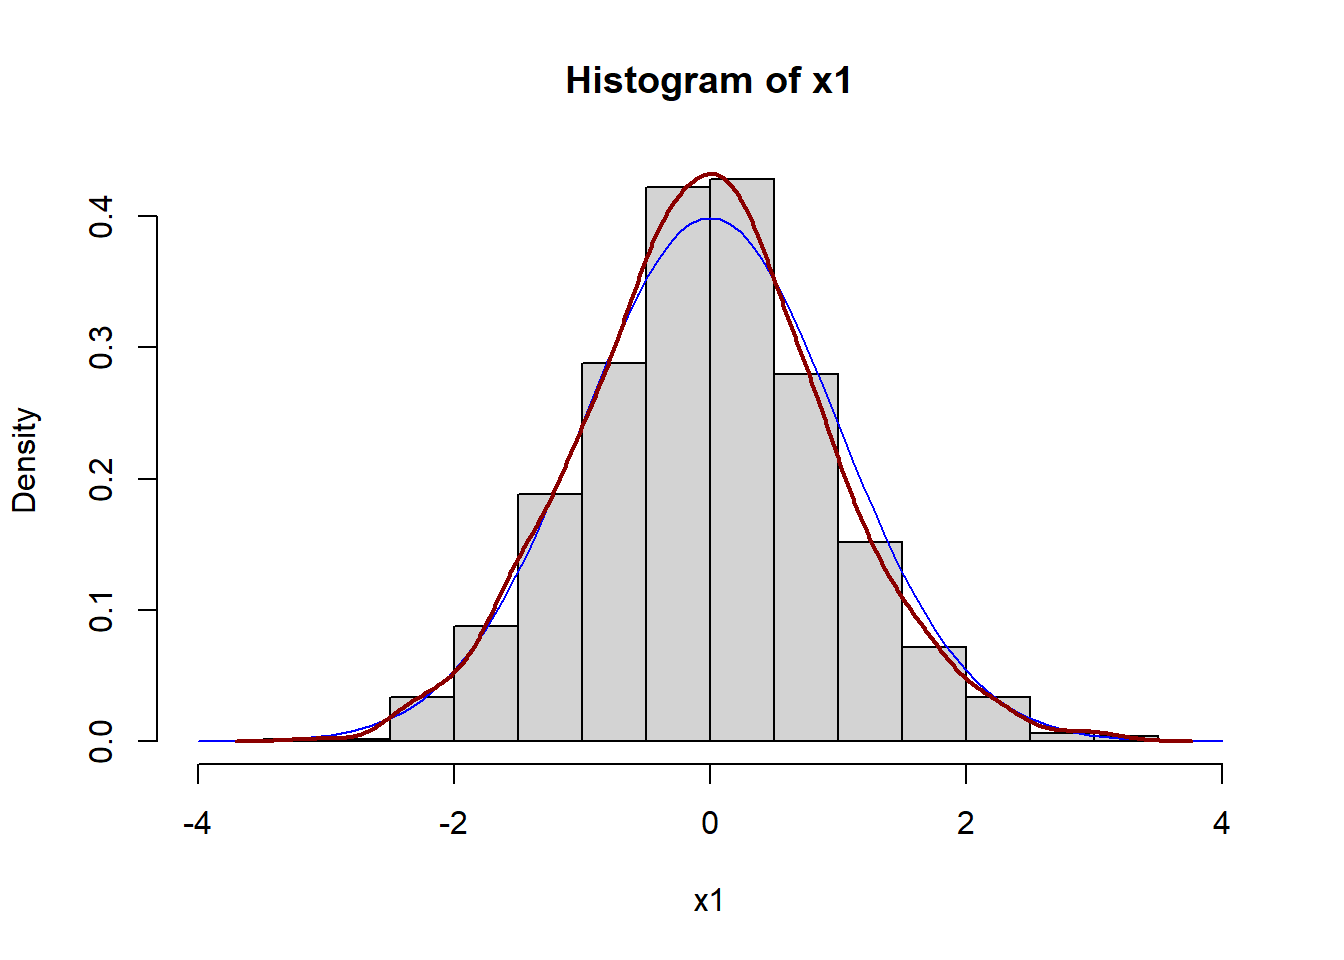
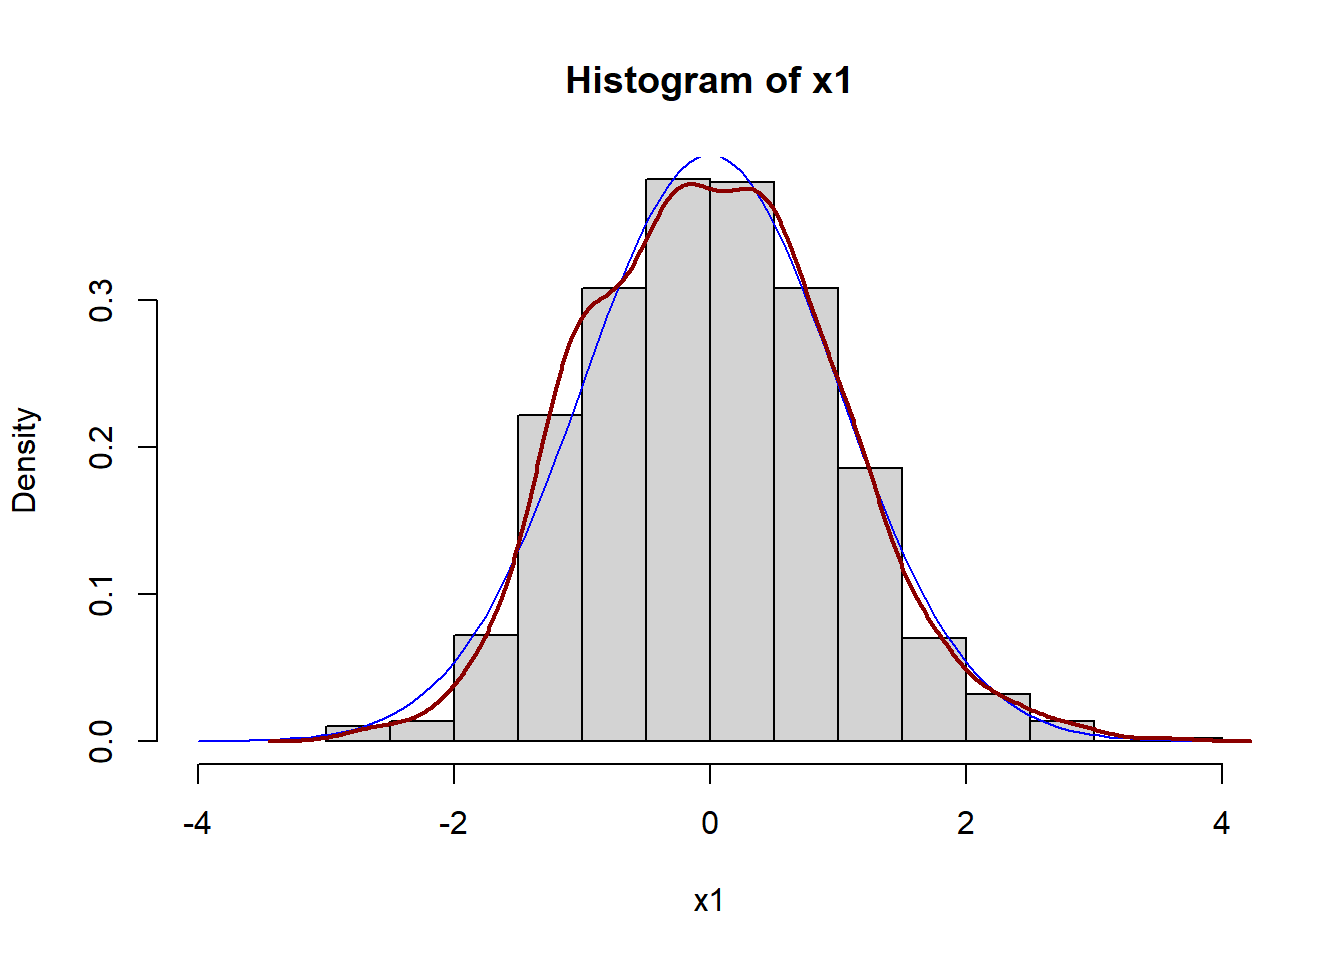
Built site for gh-pages

diff --git a/CONTENIDO/Capitulo_Ejemplo.html b/CONTENIDO/Capitulo_Ejemplo.html
@@ -9,7 +9,7 @@
 <meta name="author" content="Brayan Cubides">
 <meta name="description" content="Material del curso de Series de Tiempo">
 
-<title>1&nbsp; Repaso y Simulación Serie – SERIES DE TIEMPO</title>
+<title>2&nbsp; Repaso y Simulación Serie – SERIES DE TIEMPO</title>
 <style>
 code{white-space: pre-wrap;}
 span.smallcaps{font-variant: small-caps;}
@@ -289,7 +289,7 @@ pre > code.sourceCode > span > a:first-child::before { text-decoration: underlin
       <button type="button" class="quarto-btn-toggle btn" data-bs-toggle="collapse" role="button" data-bs-target=".quarto-sidebar-collapse-item" aria-controls="quarto-sidebar" aria-expanded="false" aria-label="Toggle sidebar navigation" onclick="if (window.quartoToggleHeadroom) { window.quartoToggleHeadroom(); }">
         <i class="bi bi-layout-text-sidebar-reverse"></i>
       </button>
-        <nav class="quarto-page-breadcrumbs" aria-label="breadcrumb"><ol class="breadcrumb"><li class="breadcrumb-item"><a href="../CONTENIDO/Capitulo_Ejemplo.html"><span class="chapter-number">1</span>&nbsp; <span class="chapter-title">Repaso y Simulación Serie</span></a></li></ol></nav>
+        <nav class="quarto-page-breadcrumbs" aria-label="breadcrumb"><ol class="breadcrumb"><li class="breadcrumb-item"><a href="../CONTENIDO/Capitulo_Ejemplo.html"><span class="chapter-number">2</span>&nbsp; <span class="chapter-title">Repaso y Simulación Serie</span></a></li></ol></nav>
         <a class="flex-grow-1" role="navigation" data-bs-toggle="collapse" data-bs-target=".quarto-sidebar-collapse-item" aria-controls="quarto-sidebar" aria-expanded="false" aria-label="Toggle sidebar navigation" onclick="if (window.quartoToggleHeadroom) { window.quartoToggleHeadroom(); }">      
         </a>
       <button type="button" class="btn quarto-search-button" aria-label="Search" onclick="window.quartoOpenSearch();">
@@ -326,13 +326,13 @@ pre > code.sourceCode > span > a:first-child::before { text-decoration: underlin
         <li class="sidebar-item">
   <div class="sidebar-item-container"> 
   <a href="../index.html" class="sidebar-item-text sidebar-link">
- <span class="menu-text">Preface</span></a>
+ <span class="menu-text"><span class="chapter-number">1</span>&nbsp; <span class="chapter-title">INTRODUCCIÓN</span></span></a>
   </div>
 </li>
         <li class="sidebar-item">
   <div class="sidebar-item-container"> 
   <a href="../CONTENIDO/Capitulo_Ejemplo.html" class="sidebar-item-text sidebar-link active">
- <span class="menu-text"><span class="chapter-number">1</span>&nbsp; <span class="chapter-title">Repaso y Simulación Serie</span></span></a>
+ <span class="menu-text"><span class="chapter-number">2</span>&nbsp; <span class="chapter-title">Repaso y Simulación Serie</span></span></a>
   </div>
 </li>
     </ul>
@@ -345,9 +345,9 @@ pre > code.sourceCode > span > a:first-child::before { text-decoration: underlin
     <h2 id="toc-title">Table of contents</h2>
    
   <ul class="collapse">
-  <li><a href="#distribución-normal-bivariada" id="toc-distribución-normal-bivariada" class="nav-link active" data-scroll-target="#distribución-normal-bivariada"><span class="header-section-number">2</span> DISTRIBUCIÓN NORMAL BIVARIADA</a></li>
-  <li><a href="#distribución-normal-univariada-1" id="toc-distribución-normal-univariada-1" class="nav-link" data-scroll-target="#distribución-normal-univariada-1"><span class="header-section-number">3</span> DISTRIBUCIÓN NORMAL UNIVARIADA 1</a></li>
-  <li><a href="#distribución-normal-univariada-2" id="toc-distribución-normal-univariada-2" class="nav-link" data-scroll-target="#distribución-normal-univariada-2"><span class="header-section-number">4</span> DISTRIBUCIÓN NORMAL UNIVARIADA 2</a></li>
+  <li><a href="#distribución-normal-bivariada" id="toc-distribución-normal-bivariada" class="nav-link active" data-scroll-target="#distribución-normal-bivariada"><span class="header-section-number">3</span> DISTRIBUCIÓN NORMAL BIVARIADA</a></li>
+  <li><a href="#distribución-normal-univariada-1" id="toc-distribución-normal-univariada-1" class="nav-link" data-scroll-target="#distribución-normal-univariada-1"><span class="header-section-number">4</span> DISTRIBUCIÓN NORMAL UNIVARIADA 1</a></li>
+  <li><a href="#distribución-normal-univariada-2" id="toc-distribución-normal-univariada-2" class="nav-link" data-scroll-target="#distribución-normal-univariada-2"><span class="header-section-number">5</span> DISTRIBUCIÓN NORMAL UNIVARIADA 2</a></li>
   </ul>
 </nav>
     </div>
@@ -357,7 +357,7 @@ pre > code.sourceCode > span > a:first-child::before { text-decoration: underlin
 
 <header id="title-block-header" class="quarto-title-block default">
 <div class="quarto-title">
-<div class="quarto-title-block"><div><h1 class="title"><span class="chapter-number">1</span>&nbsp; <span class="chapter-title">Repaso y Simulación Serie</span></h1><button type="button" class="btn code-tools-button" id="quarto-code-tools-source"><i class="bi"></i> Code</button></div></div>
+<div class="quarto-title-block"><div><h1 class="title"><span class="chapter-number">2</span>&nbsp; <span class="chapter-title">Repaso y Simulación Serie</span></h1><button type="button" class="btn code-tools-button" id="quarto-code-tools-source"><i class="bi"></i> Code</button></div></div>
 </div>
 
 
@@ -380,8 +380,8 @@ pre > code.sourceCode > span > a:first-child::before { text-decoration: underlin
 </header>
 
 
-<section id="distribución-normal-bivariada" class="level1" data-number="2">
-<h1 data-number="2"><span class="header-section-number">2</span> DISTRIBUCIÓN NORMAL BIVARIADA</h1>
+<section id="distribución-normal-bivariada" class="level1" data-number="3">
+<h1 data-number="3"><span class="header-section-number">3</span> DISTRIBUCIÓN NORMAL BIVARIADA</h1>
 <p>Esta sección limpia el entorno, define la secuencia para <em>x</em> e <em>y</em>, define la función de la distribución normal bivariada y genera el gráfico 3D de la densidad.</p>
 <div class="cell">
 <div class="sourceCode cell-code" id="cb1"><pre class="sourceCode r code-with-copy"><code class="sourceCode r"><span id="cb1-1"><a href="#cb1-1" aria-hidden="true" tabindex="-1"></a>x<span class="ot">&lt;-</span><span class="fu">seq</span>(<span class="sc">-</span><span class="dv">6</span>,<span class="dv">6</span>,<span class="at">length=</span><span class="dv">40</span>); y<span class="ot">&lt;-</span>x</span>
@@ -415,8 +415,8 @@ pre > code.sourceCode > span > a:first-child::before { text-decoration: underlin
 </div>
 </div>
 </section>
-<section id="distribución-normal-univariada-1" class="level1" data-number="3">
-<h1 data-number="3"><span class="header-section-number">3</span> DISTRIBUCIÓN NORMAL UNIVARIADA 1</h1>
+<section id="distribución-normal-univariada-1" class="level1" data-number="4">
+<h1 data-number="4"><span class="header-section-number">4</span> DISTRIBUCIÓN NORMAL UNIVARIADA 1</h1>
 <p>Se explora la normal univariada variando la media y la varianza.</p>
 <div class="cell">
 <div class="sourceCode cell-code" id="cb2"><pre class="sourceCode r code-with-copy"><code class="sourceCode r"><span id="cb2-1"><a href="#cb2-1" aria-hidden="true" tabindex="-1"></a><span class="co"># Variando la media de la distribución</span></span>
@@ -468,8 +468,8 @@ pre > code.sourceCode > span > a:first-child::before { text-decoration: underlin
 </div>
 </div>
 </section>
-<section id="distribución-normal-univariada-2" class="level1" data-number="4">
-<h1 data-number="4"><span class="header-section-number">4</span> DISTRIBUCIÓN NORMAL UNIVARIADA 2</h1>
+<section id="distribución-normal-univariada-2" class="level1" data-number="5">
+<h1 data-number="5"><span class="header-section-number">5</span> DISTRIBUCIÓN NORMAL UNIVARIADA 2</h1>
 <p>En esta sección se simulan datos normales, se trazan la serie, el histograma, la curva teórica y la estimación de densidad, además de visualizar la distribución acumulada y calcular algunos momentos.</p>
 <div class="cell">
 <div class="sourceCode cell-code" id="cb10"><pre class="sourceCode r code-with-copy"><code class="sourceCode r"><span id="cb10-1"><a href="#cb10-1" aria-hidden="true" tabindex="-1"></a>x1<span class="ot">&lt;-</span> <span class="fu">rnorm</span>(<span class="dv">1000</span>, <span class="at">mean=</span><span class="dv">0</span>, <span class="at">sd=</span><span class="dv">1</span>)</span>
@@ -509,19 +509,19 @@ pre > code.sourceCode > span > a:first-child::before { text-decoration: underlin
 <span id="cb13-7"><a href="#cb13-7" aria-hidden="true" tabindex="-1"></a></span>
 <span id="cb13-8"><a href="#cb13-8" aria-hidden="true" tabindex="-1"></a>media  </span></code><button title="Copy to Clipboard" class="code-copy-button"><i class="bi"></i></button></pre></div>
 <div class="cell-output cell-output-stdout">
-<pre><code>[1] -0.03577442</code></pre>
+<pre><code>[1] 0.008487366</code></pre>
 </div>
 <div class="sourceCode cell-code" id="cb15"><pre class="sourceCode r code-with-copy"><code class="sourceCode r"><span id="cb15-1"><a href="#cb15-1" aria-hidden="true" tabindex="-1"></a>varianza </span></code><button title="Copy to Clipboard" class="code-copy-button"><i class="bi"></i></button></pre></div>
 <div class="cell-output cell-output-stdout">
-<pre><code>[1] 0.9084387</code></pre>
+<pre><code>[1] 0.9349741</code></pre>
 </div>
 <div class="sourceCode cell-code" id="cb17"><pre class="sourceCode r code-with-copy"><code class="sourceCode r"><span id="cb17-1"><a href="#cb17-1" aria-hidden="true" tabindex="-1"></a>sesgo  </span></code><button title="Copy to Clipboard" class="code-copy-button"><i class="bi"></i></button></pre></div>
 <div class="cell-output cell-output-stdout">
-<pre><code>[1] 0.08749007</code></pre>
+<pre><code>[1] 0.1938528</code></pre>
 </div>
 <div class="sourceCode cell-code" id="cb19"><pre class="sourceCode r code-with-copy"><code class="sourceCode r"><span id="cb19-1"><a href="#cb19-1" aria-hidden="true" tabindex="-1"></a>curtosis</span></code><button title="Copy to Clipboard" class="code-copy-button"><i class="bi"></i></button></pre></div>
 <div class="cell-output cell-output-stdout">
-<pre><code>[1] 3.09528</code></pre>
+<pre><code>[1] 2.993665</code></pre>
 </div>
 </div>
 
@@ -996,8 +996,8 @@ pre > code.sourceCode > span > a:first-child::before { text-decoration: underlin
   </script>
 <nav class="page-navigation">
   <div class="nav-page nav-page-previous">
-      <a href="../index.html" class="pagination-link" aria-label="Preface">
-        <i class="bi bi-arrow-left-short"></i> <span class="nav-page-text">Preface</span>
+      <a href="../index.html" class="pagination-link" aria-label="INTRODUCCIÓN">
+        <i class="bi bi-arrow-left-short"></i> <span class="nav-page-text"><span class="chapter-number">1</span>&nbsp; <span class="chapter-title">INTRODUCCIÓN</span></span>
       </a>          
   </div>
   <div class="nav-page nav-page-next">

diff --git a/index.html b/index.html
@@ -286,7 +286,7 @@ pre > code.sourceCode > span > a:first-child::before { text-decoration: underlin
       <button type="button" class="quarto-btn-toggle btn" data-bs-toggle="collapse" role="button" data-bs-target=".quarto-sidebar-collapse-item" aria-controls="quarto-sidebar" aria-expanded="false" aria-label="Toggle sidebar navigation" onclick="if (window.quartoToggleHeadroom) { window.quartoToggleHeadroom(); }">
         <i class="bi bi-layout-text-sidebar-reverse"></i>
       </button>
-        <nav class="quarto-page-breadcrumbs" aria-label="breadcrumb"><ol class="breadcrumb"><li class="breadcrumb-item"><a href="./index.html">Preface</a></li></ol></nav>
+        <nav class="quarto-page-breadcrumbs" aria-label="breadcrumb"><ol class="breadcrumb"><li class="breadcrumb-item"><a href="./index.html"><span class="chapter-number">1</span>&nbsp; <span class="chapter-title">INTRODUCCIÓN</span></a></li></ol></nav>
         <a class="flex-grow-1" role="navigation" data-bs-toggle="collapse" data-bs-target=".quarto-sidebar-collapse-item" aria-controls="quarto-sidebar" aria-expanded="false" aria-label="Toggle sidebar navigation" onclick="if (window.quartoToggleHeadroom) { window.quartoToggleHeadroom(); }">      
         </a>
       <button type="button" class="btn quarto-search-button" aria-label="Search" onclick="window.quartoOpenSearch();">
@@ -323,13 +323,13 @@ pre > code.sourceCode > span > a:first-child::before { text-decoration: underlin
         <li class="sidebar-item">
   <div class="sidebar-item-container"> 
   <a href="./index.html" class="sidebar-item-text sidebar-link active">
- <span class="menu-text">Preface</span></a>
+ <span class="menu-text"><span class="chapter-number">1</span>&nbsp; <span class="chapter-title">INTRODUCCIÓN</span></span></a>
   </div>
 </li>
         <li class="sidebar-item">
   <div class="sidebar-item-container"> 
   <a href="./CONTENIDO/Capitulo_Ejemplo.html" class="sidebar-item-text sidebar-link">
- <span class="menu-text"><span class="chapter-number">1</span>&nbsp; <span class="chapter-title">Repaso y Simulación Serie</span></span></a>
+ <span class="menu-text"><span class="chapter-number">2</span>&nbsp; <span class="chapter-title">Repaso y Simulación Serie</span></span></a>
   </div>
 </li>
     </ul>
@@ -342,7 +342,7 @@ pre > code.sourceCode > span > a:first-child::before { text-decoration: underlin
     <h2 id="toc-title">Table of contents</h2>
    
   <ul class="collapse">
-  <li><a href="#preface" id="toc-preface" class="nav-link active" data-scroll-target="#preface">Preface</a></li>
+  <li><a href="#bienvenido-a-la-sección-de" id="toc-bienvenido-a-la-sección-de" class="nav-link active" data-scroll-target="#bienvenido-a-la-sección-de">Bienvenido a la sección de ———————</a></li>
   </ul>
 </nav>
     </div>
@@ -352,7 +352,7 @@ pre > code.sourceCode > span > a:first-child::before { text-decoration: underlin
 
 <header id="title-block-header" class="quarto-title-block default">
 <div class="quarto-title">
-<h1 class="title">SERIES DE TIEMPO</h1>
+<div class="quarto-title-block"><div><h1 class="title">SERIES DE TIEMPO</h1><button type="button" class="btn code-tools-button" id="quarto-code-tools-source"><i class="bi"></i> Code</button></div></div>
 </div>
 
 <div>
@@ -380,17 +380,12 @@ pre > code.sourceCode > span > a:first-child::before { text-decoration: underlin
 </header>
 
 
-<section id="preface" class="level1 unnumbered">
-<h1 class="unnumbered">Preface</h1>
-<p>This is a Quarto book.</p>
-<p>To learn more about Quarto books visit <a href="https://quarto.org/docs/books" class="uri">https://quarto.org/docs/books</a>.</p>
-<div class="cell">
-<div class="sourceCode cell-code" id="cb1"><pre class="sourceCode r code-with-copy"><code class="sourceCode r"><span id="cb1-1"><a href="#cb1-1" aria-hidden="true" tabindex="-1"></a><span class="dv">1</span> <span class="sc">+</span> <span class="dv">1</span></span></code><button title="Copy to Clipboard" class="code-copy-button"><i class="bi"></i></button></pre></div>
-<div class="cell-output cell-output-stdout">
-<pre><code>[1] 2</code></pre>
-</div>
-</div>
+<section id="bienvenido-a-la-sección-de" class="level1 unnumbered">
+<h1 class="unnumbered">Bienvenido a la sección de ———————</h1>
+<p>Selecciona el tema que quieras ver a la derecha</p>
 
+
+<!-- -->
 
 </section>
 
@@ -477,6 +472,57 @@ pre > code.sourceCode > span > a:first-child::before { text-decoration: underlin
         container: window.document.getElementById('quarto-embedded-source-code-modal')
       });
       clipboardModal.on('success', onCopySuccess);
+    }
+    const viewSource = window.document.getElementById('quarto-view-source') ||
+                       window.document.getElementById('quarto-code-tools-source');
+    if (viewSource) {
+      const sourceUrl = viewSource.getAttribute("data-quarto-source-url");
+      viewSource.addEventListener("click", function(e) {
+        if (sourceUrl) {
+          // rstudio viewer pane
+          if (/\bcapabilities=\b/.test(window.location)) {
+            window.open(sourceUrl);
+          } else {
+            window.location.href = sourceUrl;
+          }
+        } else {
+          const modal = new bootstrap.Modal(document.getElementById('quarto-embedded-source-code-modal'));
+          modal.show();
+        }
+        return false;
+      });
+    }
+    function toggleCodeHandler(show) {
+      return function(e) {
+        const detailsSrc = window.document.querySelectorAll(".cell > details > .sourceCode");
+        for (let i=0; i<detailsSrc.length; i++) {
+          const details = detailsSrc[i].parentElement;
+          if (show) {
+            details.open = true;
+          } else {
+            details.removeAttribute("open");
+          }
+        }
+        const cellCodeDivs = window.document.querySelectorAll(".cell > .sourceCode");
+        const fromCls = show ? "hidden" : "unhidden";
+        const toCls = show ? "unhidden" : "hidden";
+        for (let i=0; i<cellCodeDivs.length; i++) {
+          const codeDiv = cellCodeDivs[i];
+          if (codeDiv.classList.contains(fromCls)) {
+            codeDiv.classList.remove(fromCls);
+            codeDiv.classList.add(toCls);
+          } 
+        }
+        return false;
+      }
+    }
+    const hideAllCode = window.document.getElementById("quarto-hide-all-code");
+    if (hideAllCode) {
+      hideAllCode.addEventListener("click", toggleCodeHandler(false));
+    }
+    const showAllCode = window.document.getElementById("quarto-show-all-code");
+    if (showAllCode) {
+      showAllCode.addEventListener("click", toggleCodeHandler(true));
     }
       var localhostRegex = new RegExp(/^(?:http|https):\/\/localhost\:?[0-9]*\//);
       var mailtoRegex = new RegExp(/^mailto:/);
@@ -812,10 +858,23 @@ pre > code.sourceCode > span > a:first-child::before { text-decoration: underlin
   </div>
   <div class="nav-page nav-page-next">
       <a href="./CONTENIDO/Capitulo_Ejemplo.html" class="pagination-link" aria-label="Repaso y Simulación Serie">
-        <span class="nav-page-text"><span class="chapter-number">1</span>&nbsp; <span class="chapter-title">Repaso y Simulación Serie</span></span> <i class="bi bi-arrow-right-short"></i>
+        <span class="nav-page-text"><span class="chapter-number">2</span>&nbsp; <span class="chapter-title">Repaso y Simulación Serie</span></span> <i class="bi bi-arrow-right-short"></i>
       </a>
   </div>
-</nav>
+</nav><div class="modal fade" id="quarto-embedded-source-code-modal" tabindex="-1" aria-labelledby="quarto-embedded-source-code-modal-label" aria-hidden="true"><div class="modal-dialog modal-dialog-scrollable"><div class="modal-content"><div class="modal-header"><h5 class="modal-title" id="quarto-embedded-source-code-modal-label">Source Code</h5><button class="btn-close" data-bs-dismiss="modal"></button></div><div class="modal-body"><div class="">
+<div class="sourceCode" id="cb1" data-shortcodes="false"><pre class="sourceCode markdown code-with-copy"><code class="sourceCode markdown"><span id="cb1-1"><a href="#cb1-1" aria-hidden="true" tabindex="-1"></a><span class="co">---</span></span>
+<span id="cb1-2"><a href="#cb1-2" aria-hidden="true" tabindex="-1"></a><span class="an">title:</span><span class="co"> "INTRODUCCIÓN"</span></span>
+<span id="cb1-3"><a href="#cb1-3" aria-hidden="true" tabindex="-1"></a><span class="an">code-tools:</span><span class="co"> true</span></span>
+<span id="cb1-4"><a href="#cb1-4" aria-hidden="true" tabindex="-1"></a><span class="an">lightbox:</span><span class="co"> true</span></span>
+<span id="cb1-5"><a href="#cb1-5" aria-hidden="true" tabindex="-1"></a><span class="an">toc:</span><span class="co"> true</span></span>
+<span id="cb1-6"><a href="#cb1-6" aria-hidden="true" tabindex="-1"></a><span class="an">toc-location:</span><span class="co"> right</span></span>
+<span id="cb1-7"><a href="#cb1-7" aria-hidden="true" tabindex="-1"></a><span class="co">#number-sections: true</span></span>
+<span id="cb1-8"><a href="#cb1-8" aria-hidden="true" tabindex="-1"></a><span class="co">---</span></span>
+<span id="cb1-9"><a href="#cb1-9" aria-hidden="true" tabindex="-1"></a></span>
+<span id="cb1-10"><a href="#cb1-10" aria-hidden="true" tabindex="-1"></a><span class="fu"># Bienvenido a la sección de --------------------- {.unnumbered}</span></span>
+<span id="cb1-11"><a href="#cb1-11" aria-hidden="true" tabindex="-1"></a></span>
+<span id="cb1-12"><a href="#cb1-12" aria-hidden="true" tabindex="-1"></a>Selecciona el tema que quieras ver a la derecha</span></code><button title="Copy to Clipboard" class="code-copy-button" data-in-quarto-modal=""><i class="bi"></i></button></pre></div>
+</div></div></div></div></div>
 </div> <!-- /content -->
 
 
